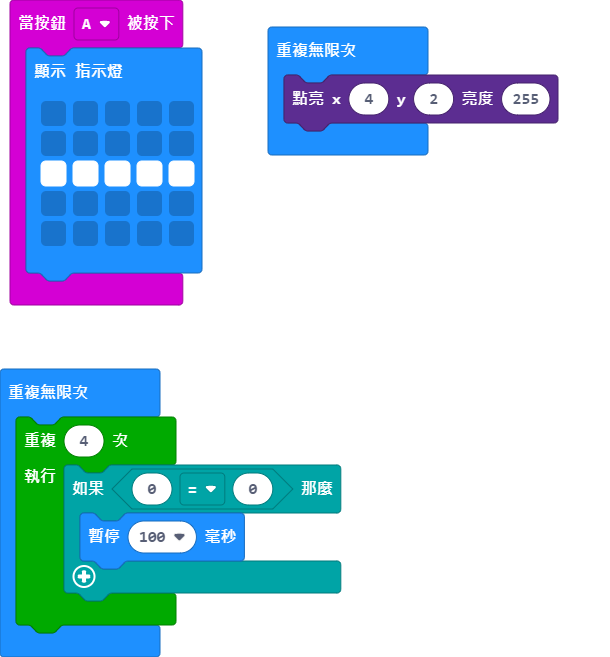
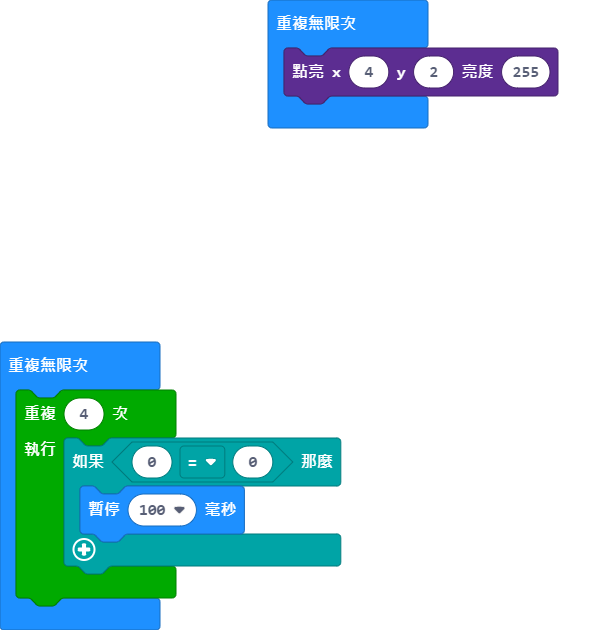
更新 main.blocks, main.ts

Changed region(s): [[0.0, 0.0, 0.3426, 0.4825], [0.0, 0.5429, 0.5607, 0.9651], [0.4361, 0.0, 0.9344, 0.2413]]

diff --git a/main.ts b/main.ts
@@ -1,12 +1,3 @@
-input.onButtonPressed(Button.A, function () {
-    basic.showLeds(`
-        . . . . .
-        . . . . .
-        # # # # #
-        . . . . .
-        . . . . .
-        `)
-})
 basic.forever(function () {
     led.plotBrightness(4, 2, 255)
 })
